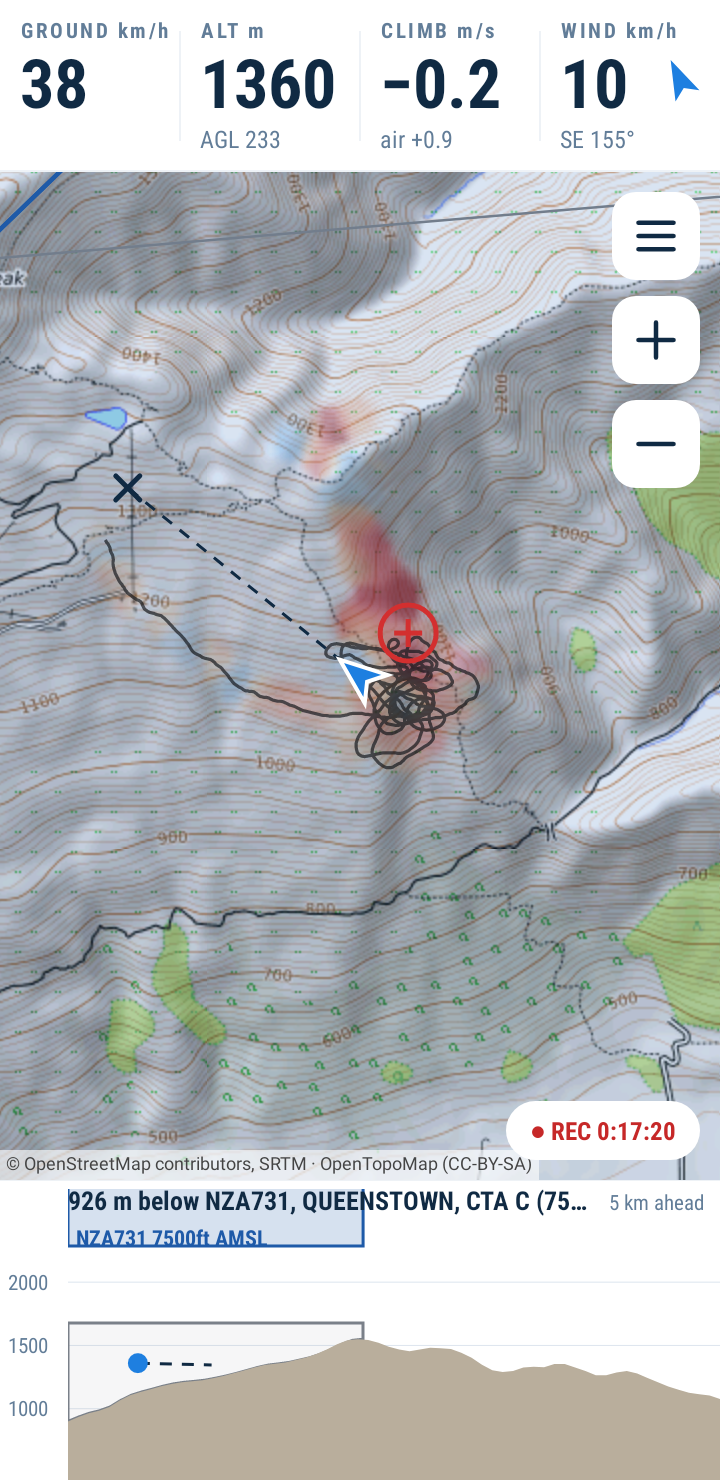
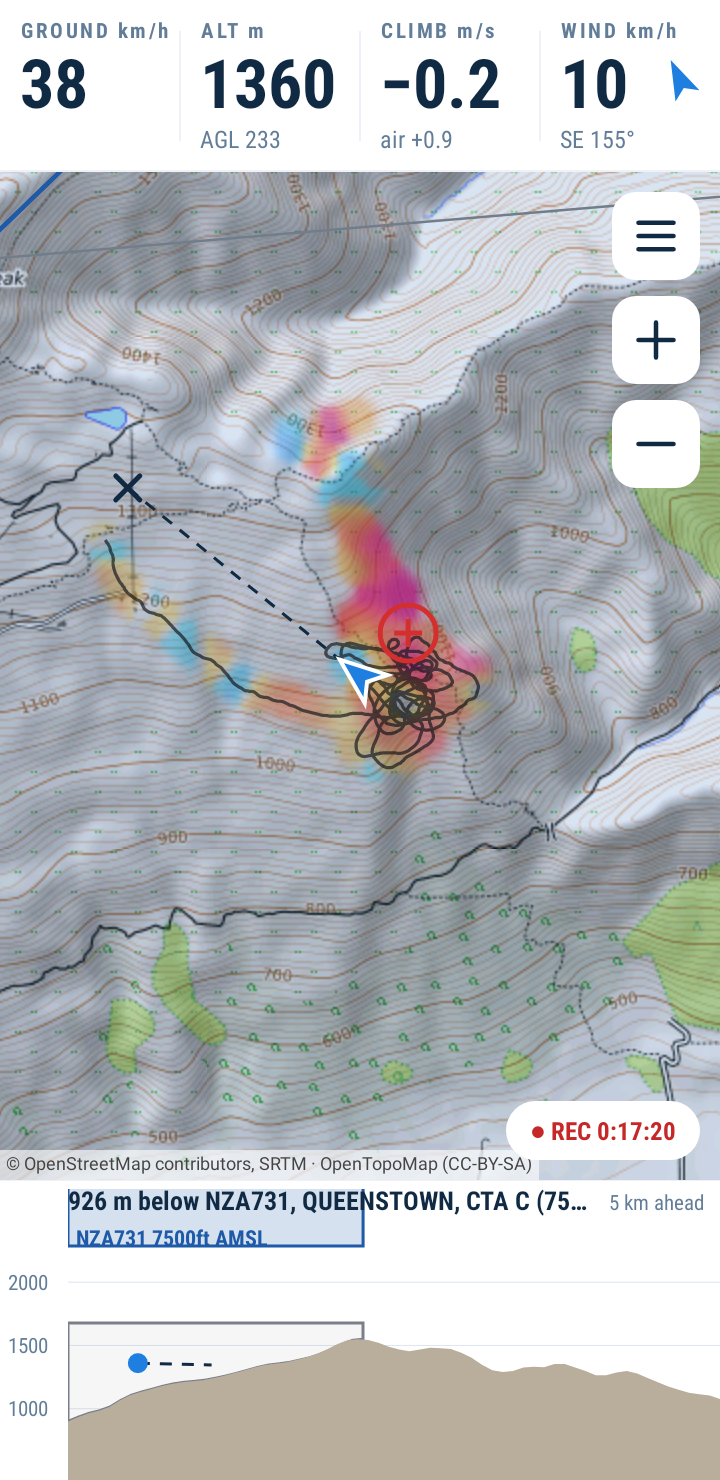
cloudbase: vivid, map-contrasting heat-map colours
Claude-Session: https://claude.ai/code/session_01WPq8MfriARqNX7o4hLC8bK

Changed region(s): [[0.2139, 0.2486, 0.6722, 0.5284], [0.1222, 0.3419, 0.2139, 0.4351]]

diff --git a/app/src/main/java/app/cloudbase/ui/HeatGrid.kt b/app/src/main/java/app/cloudbase/ui/HeatGrid.kt
@@ -66,12 +66,15 @@ class HeatGrid(val n: Int) {
         private const val CENTRE_WEIGHT = (6 / 16f) * (6 / 16f)
         /** Air moving less than this is shown as nothing: it is within the noise of the estimate. */
         const val DEAD_BAND = 0.2f
-        const val MAX_ALPHA = 215
+        const val MAX_ALPHA = 235
 
-        // Graduated ramps, weakest to strongest. Lift runs warm (amber to deep red), sink runs
-        // cool (pale to deep blue), so strength reads from the hue as well as the opacity.
-        private val LIFT = intArrayOf(0xFFC14D, 0xFF8A3D, 0xF4511E, 0xD32F2F, 0x8E0000)
-        private val SINK = intArrayOf(0x9AD1F5, 0x5AAEF0, 0x1E88E5, 0x1565C0, 0x0B3C91)
+        // Graduated ramps, weakest to strongest, so strength reads from the hue as well as the
+        // opacity. Every stop is fully saturated, and chosen to be a colour the topographic map
+        // underneath does not use: the map is muted greens, greys, browns and a pale grey-blue,
+        // which is exactly what a soft blue or a dull red disappears into in sunlight. Lift runs
+        // yellow through orange and red to hot pink; sink runs cyan through electric blue to violet.
+        private val LIFT = intArrayOf(0xFFD600, 0xFF9100, 0xFF3D00, 0xFF1744, 0xD5006D)
+        private val SINK = intArrayOf(0x00E5FF, 0x00B0FF, 0x2979FF, 0x3D5AFE, 0x651FFF)
 
         /** ARGB for a climb value. [coverage] 0..1 fades the edges of the mapped area. */
         fun color(climb: Float, fullScale: Float, coverage: Float): Int {
@@ -87,8 +90,9 @@ class HeatGrid(val n: Int) {
             val r = mix(a shr 16 and 0xFF, b shr 16 and 0xFF, f)
             val g = mix(a shr 8 and 0xFF, b shr 8 and 0xFF, f)
             val bl = mix(a and 0xFF, b and 0xFF, f)
-            // Weak air is faint, strong air is solid; never fully opaque so the map shows through.
-            val alpha = (MAX_ALPHA * coverage * (0.35f + 0.65f * t)).toInt()
+            // Weak air is lighter, strong air nearly solid; even the weakest is opaque enough to
+            // read in sunlight, and nothing is fully opaque so the map still shows through.
+            val alpha = (MAX_ALPHA * coverage * (0.55f + 0.45f * t)).toInt()
             return (alpha shl 24) or (r shl 16) or (g shl 8) or bl
         }
 

diff --git a/app/src/main/java/app/cloudbase/ui/Overlays.kt b/app/src/main/java/app/cloudbase/ui/Overlays.kt
@@ -199,7 +199,7 @@ class ThermalOverlay(context: Context) : MapView.Overlay, ThermalMap.Visitor {
         /** Lift or sink at which the colour is at its strongest. */
         const val FULL_SCALE_MS = 3.0f
         /** How strongly old, ground-fixed samples are drawn next to fresh ones: faded, still legible. */
-        const val HISTORY_STRENGTH = 0.5f
+        const val HISTORY_STRENGTH = 0.6f
         const val SIZE = 96
         private const val LIVE = 0
         private const val HISTORY = 1

diff --git a/README.md b/README.md
@@ -40,9 +40,10 @@ is carrying you on the map.
 **Map.** North-up topographic map. Airspace you must stay out of is outlined blue (controlled)
 or red (restricted, danger, military); informational airspace is thin grey. Press and hold on an
 airspace for its limits, or to ignore it. **Tap the map once to zoom in, twice to zoom out**
-(made for gloves; the + and − buttons and pinch work too). The coloured cloud is the **thermal map**: warm where the air was
-rising (amber for weak lift through to deep red for strong), cool where it was sinking (pale to
-deep blue), drifting downwind with the air; the red ring marks the best lift nearby. That drift only lasts
+(made for gloves; the + and − buttons and pinch work too). The coloured cloud is the **thermal map**: yellow through orange
+and red to hot pink where the air was rising (weak to strong), cyan through electric blue to
+violet where it was sinking, in saturated colours the map itself does not use so they stand out
+in sunlight, drifting downwind with the air; the red ring marks the best lift nearby. That drift only lasts
 five minutes, long enough to centre the climb you are in. After that a patch is shown, faded,
 at the ground location where you met it, and stays there for the rest of the flight: thermals
 come off terrain, so the place is what is worth remembering. The map **zooms in close when you start circling** and back out when you leave.
